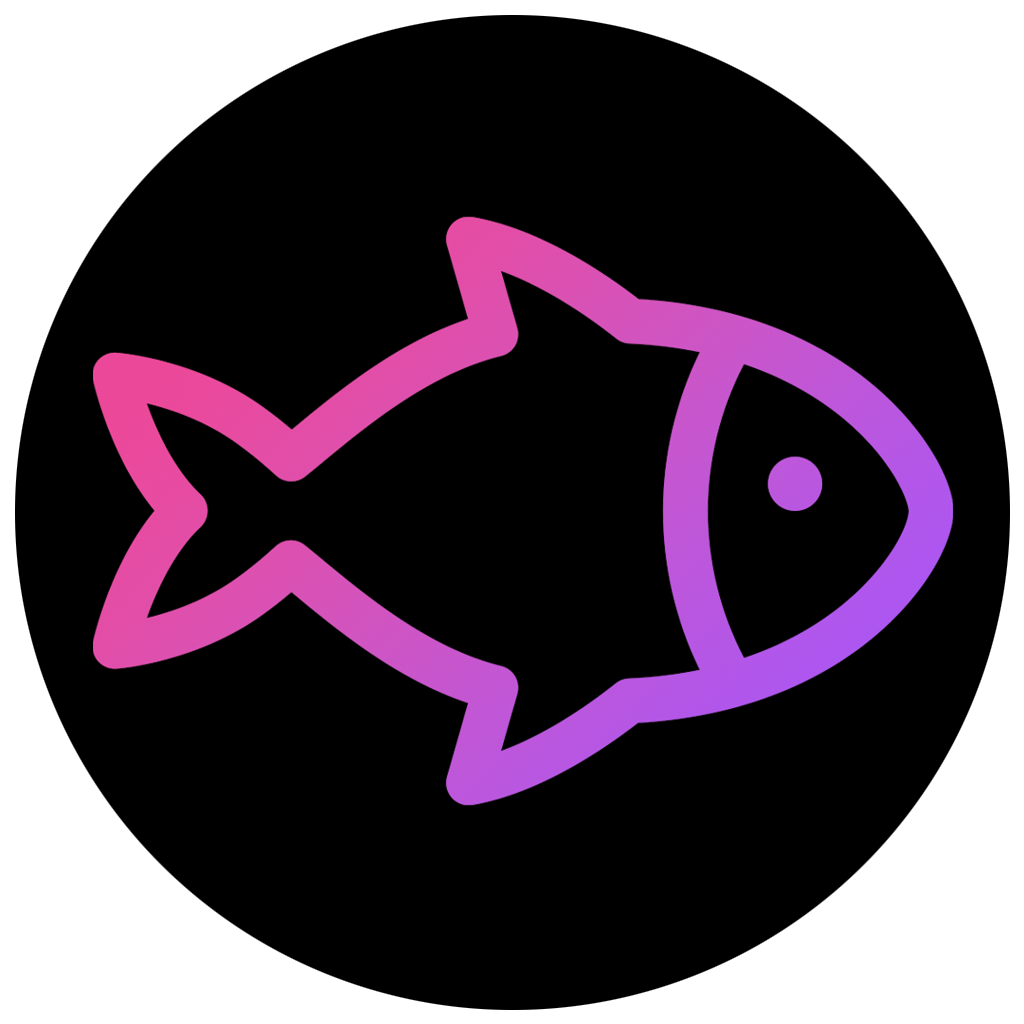
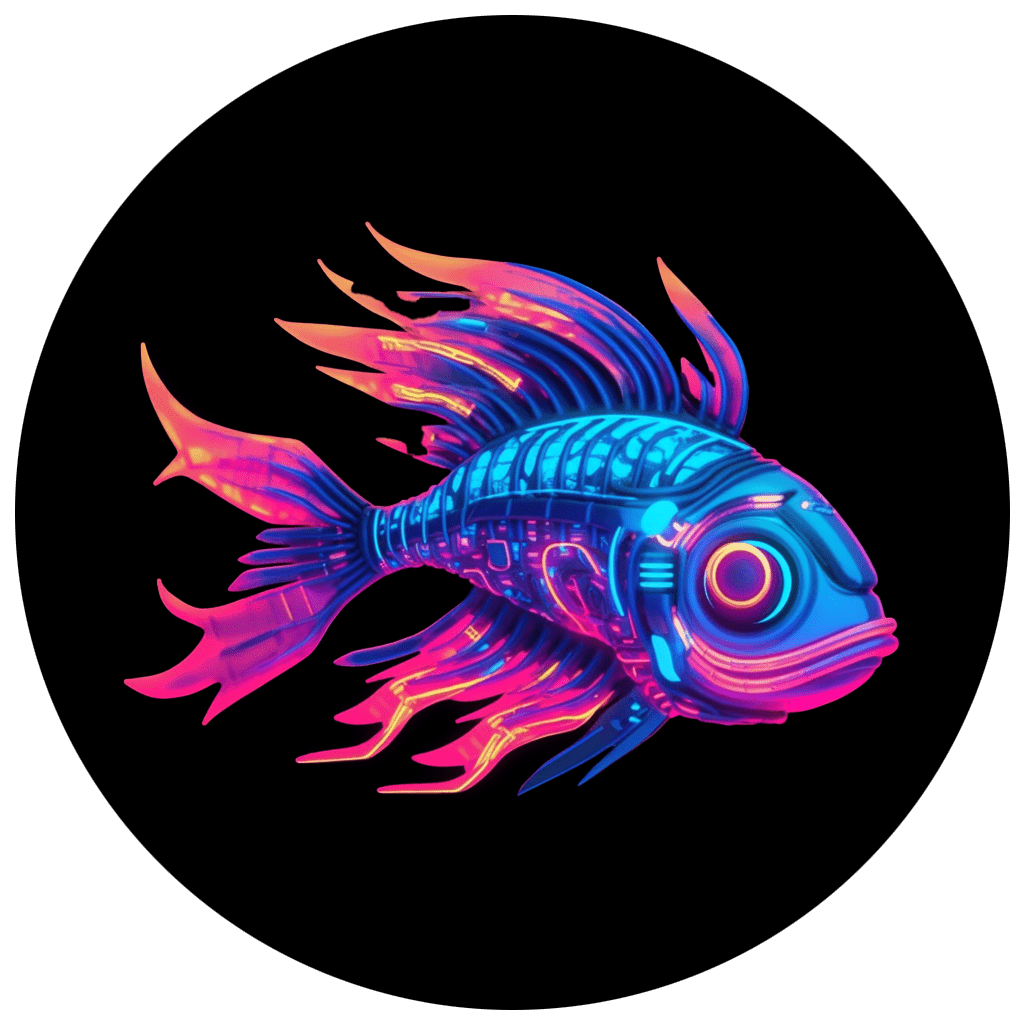
Introducing mechafish

Changed region(s): [[0.0938, 0.1875, 0.9375, 0.8125], [0.3125, 0.25, 0.3438, 0.2812]]

diff --git a/src/components/Icon.tsx b/src/components/Icon.tsx
@@ -1,17 +1,5 @@
-/* eslint-disable react/jsx-curly-brace-presence */
 import React from 'react';
-import colors from 'tailwindcss/colors';
 
-export default function Icon({onClick, strokeWidth = 32, fill = 'none', className}: {onClick?: () => void, strokeWidth?: number, fill?: string, className?: string}) {
-	return <svg xmlns="http://www.w3.org/2000/svg" onClick={onClick} className={className} viewBox="0 0 512 512">
-		<defs>
-			<linearGradient id="underTheSea" gradientTransform="rotate(-45)" x1="0%" y1="0%" x2="0%" y2="100%" gradientUnits="userSpaceOnUse">
-				<stop offset="0" stopColor={colors.pink[500]}/>
-				<stop offset="1" stopColor={colors.purple[400]}/>
-			</linearGradient>
-		</defs>
-		<path fill={fill} stroke="url(#underTheSea)" strokeWidth={strokeWidth} strokeLinejoin="round" d="M240,152c-50.71,12.21-94.15,52.31-120.3,73.43a261.14,261.14,0,0,0-23.81-19.58C59.53,179.29,16,176,16,176s11.37,51.53,41.36,79.83C27.37,284.14,16,335.67,16,335.67s43.53-3.29,79.89-29.85a259.18,259.18,0,0,0,23.61-19.41C145.6,307.55,189.24,347.75,240,360l-16,56c39.43-6.67,78.86-35.51,94.72-48.25C448,362,496,279,496,256c0-22-48-106-176.89-111.73C303.52,131.78,263.76,102.72,224,96Z"/>
-		<circle fill="url(#underTheSea)" cx="416" cy="239.99" r="16"/>
-		<path fill={fill} stroke="url(#underTheSea)" strokeWidth={strokeWidth} strokeLinecap="round" strokeMiterlimit="20" d="M378.37,356a199.22,199.22,0,0,1,0-200"/>
-	</svg>;
+export default function Icon({onClick, className}: {onClick?: () => void, className?: string}) {
+	return <img onClick={onClick} src={'/mechafish.png'} alt={'Seafood'} className={className} />;
 }

diff --git a/src/components/Powerstrip.tsx b/src/components/Powerstrip.tsx
@@ -4,7 +4,6 @@ import {Link, matchRoutes, useLocation} from 'react-router-dom';
 import Wordmark from './Wordmark';
 import Icon from './Icon';
 import {A} from './controls';
-import Starfield from './Starfield';
 import {useVaultStatusUI} from './MobileNav/Sync';
 import {useVaults} from '../context/useVaults';
 import Lux from './Lux';
@@ -161,10 +160,9 @@ export default function Powerstrip({className}: {className?: string}) {
 						{MenuLinks.map(link => link)}
 					</div>
 					<div className={'pr-3 flex flex-col items-center justify-center'}>
-						<Lux className={'mb-16 p-4'} />
-						<div className={'relative w-[80%] h-16 flex items-start justify-end'}>
-							<Starfield className={'absolute z-1 inset'} />
-							<Icon className={'absolute z-10 w-1/4 top-1 right-2'} fill={'black'} />
+						<Lux className={'mb-20'} />
+						<div className={'relative w-[80%] h-16 flex items-start justify-center'}>
+							<Icon className={'w-1/2'} />
 						</div>
 						<Wordmark className={'text-3xl'} />
 						<div className={'mt-3 flex items-center justify-center gap-3 flex-wrap'}>

diff --git a/public/index.html b/public/index.html
@@ -4,7 +4,7 @@
     <meta charset="utf-8">
     <meta name="viewport" content="width=device-width, initial-scale=1">
     <meta name="theme-color" content="#000000">
-    <meta name="description" content="Yearn's internal dashboard for vault management and reporting">
+    <meta name="description" content="Yearn vault explorer and simulator">
 
     <!--
       manifest.json provides metadata used when your web app is installed on a
@@ -21,7 +21,7 @@
       Learn how to configure a non-root public URL by running `npm run build`.
     -->
     <title>Seafood</title>
-    <link rel="icon" type="image/png" sizes="any" href="%PUBLIC_URL%/favicon.svg">
+    <link rel="icon" type="image/png" sizes="any" href="%PUBLIC_URL%/favicon.png">
     <meta name="msapplication-square70x70logo" content="icon/mstile-icon-128.png">
     <meta name="msapplication-square150x150logo" content="icon/mstile-icon-270.png">
     <meta name="msapplication-square310x310logo" content="icon/mstile-icon-558.png">

diff --git a/src/components/SpeechBubble.tsx b/src/components/SpeechBubble.tsx
@@ -3,7 +3,7 @@ import Icon from './Icon';
 
 export default function SpeechBubble({text, className}: {text: string, className?: string}) {
 	return <div className={`flex items-center ${className}`}>
-		<Icon strokeWidth={24} className={'py-1 w-12 h-12'} />
+		<Icon className={'py-1 w-12 h-12'} />
 		<div className={'rainbow-text font-bold drop-shadow whitespace-nowrap'}>{`.｡oO ${text}`}&nbsp;</div>
 	</div>;
 }

diff --git a/src/components/Lux.js b/src/components/Lux.js
@@ -8,6 +8,8 @@ export default function Lux({className}) {
 	return <div onClick={() => {setDarkMode(!darkMode);}} 
 		className={`
 			flex items-center justify-center
+			sm:hover:text-selected-400 sm:active:text-selected-500
+			sm:dark:hover:text-selected-600 sm:dark:active:text-selected-700
 			cursor-pointer
 			${className}`}>
 		{darkMode ? <BsMoonFill /> : <BsBrightnessHigh />}

diff --git a/src/components/Wordmark.tsx b/src/components/Wordmark.tsx
@@ -2,7 +2,7 @@ import React from 'react';
 
 export default function Wordmark({onClick, className}: {onClick?: () => void, className?: string}) {
 	return <h1 onClick={onClick} className={`
-		font-[Goldman] rainbow-text drop-shadow ${className}`}>
+		font-wordmark rainbow-text drop-shadow ${className}`}>
 		{'Seafood'}
 	</h1>;
 }

diff --git a/src/index.css b/src/index.css
@@ -2,7 +2,7 @@
 @tailwind components;
 @tailwind utilities;
 
-@import url('https://fonts.googleapis.com/css2?family=Goldman:wght@700&display=swap');
+@import url('https://fonts.googleapis.com/css2?family=Goldman:wght@400&display=swap');
 
 html {
   @apply w-full max-h-screen overflow-hidden;

diff --git a/tailwind.config.js b/tailwind.config.js
@@ -28,6 +28,9 @@ module.exports = {
         'attention': colors.yellow,
         'error': colors.red
       },
+      fontFamily: {
+        'wordmark': ['Goldman']
+      },
       keyframes: {
         'slide-in-x': {
           '0%': { transform: 'translateX(-5%)' },
